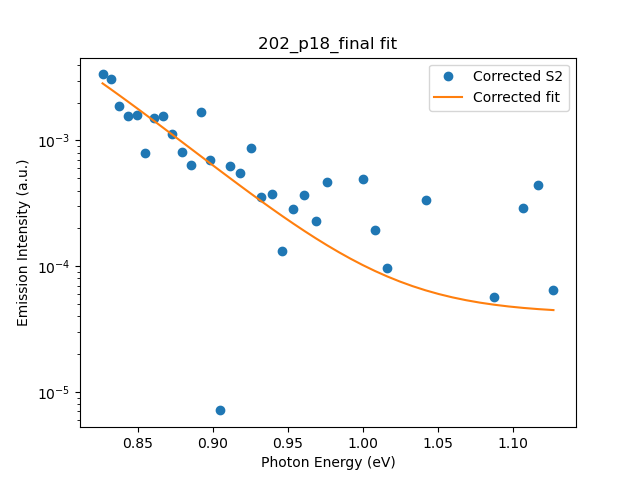
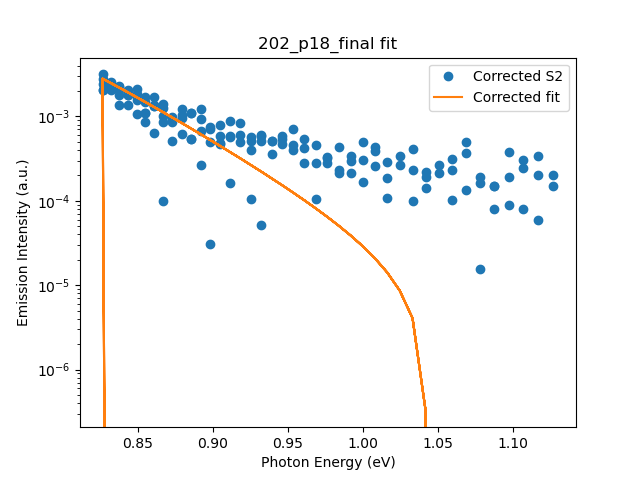
Initial commit on new workstation

diff --git a/test_v2.py b/test_v2.py
@@ -125,7 +125,7 @@ def guess_check(title_str, xdata, ydata, label1, label2, plot_title, bandE):
 
     # Curve fit range and weight:
     E = np.linspace(np.min(xdata), np.max(xdata), len(xdata))
-    weight_func = np.exp(E*6)
+    weight_func = np.exp(-E*12)
 
     popt1, pcov1 = curve_fit(first_pass, xdata, ydata, maxfev = 10000, sigma = weight_func, absolute_sigma=True) 
     #print(popt1)
